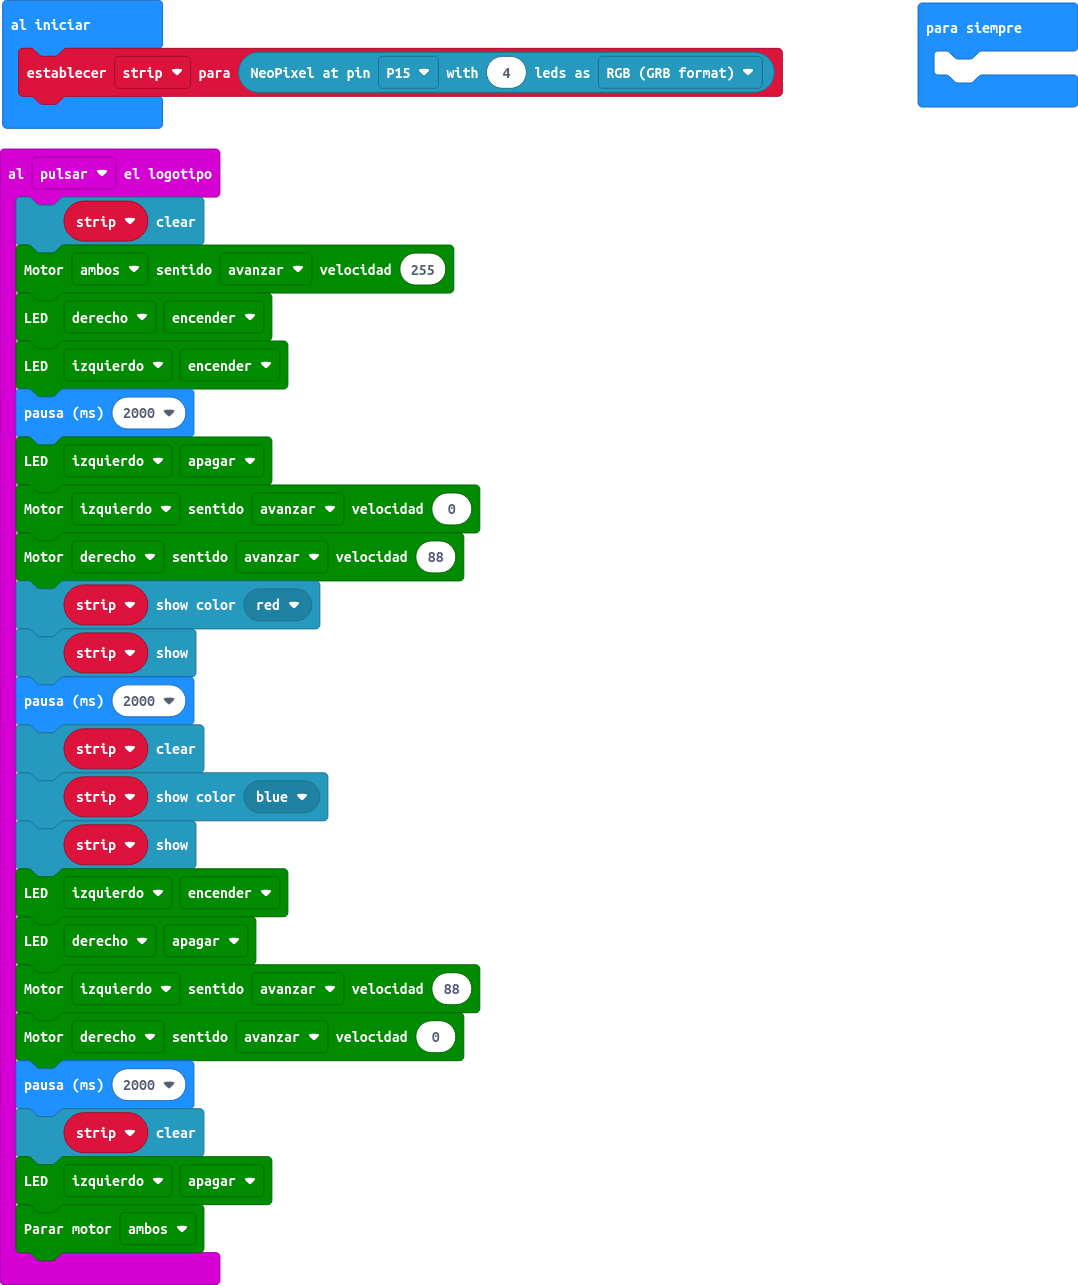
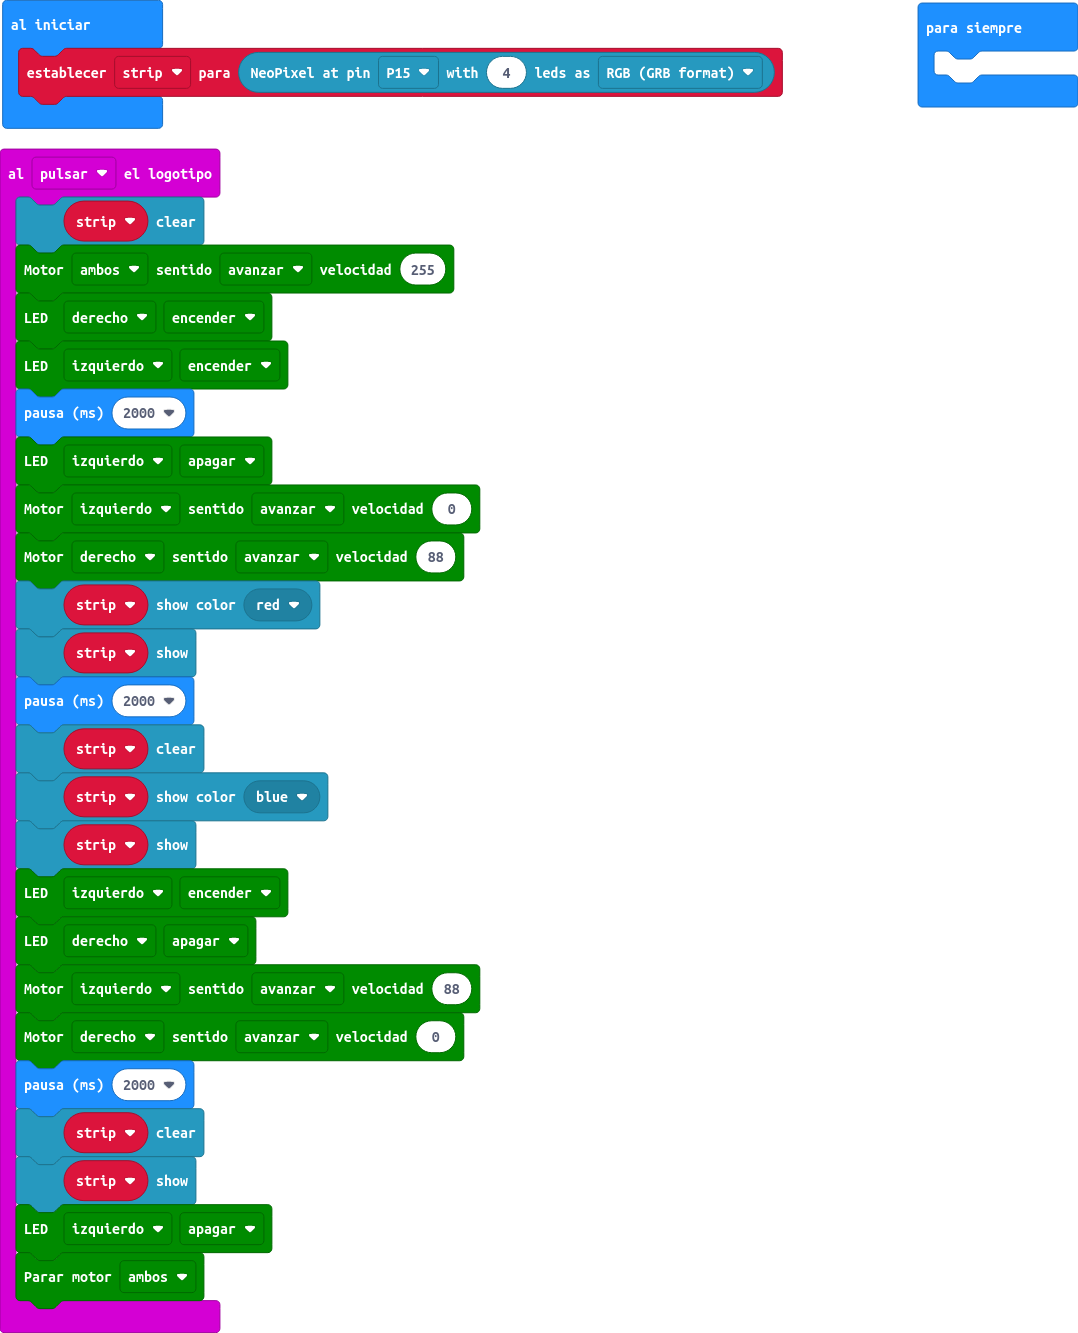
Actualizar main.blocks, main.ts

Changed region(s): [[0.0, 0.0311, 0.7347, 0.965], [0.8571, 0.0, 1.0, 0.0934]]

diff --git a/main.ts b/main.ts
@@ -19,6 +19,7 @@ input.onLogoEvent(TouchButtonEvent.Pressed, function () {
     maqueen.motorRun(maqueen.Motors.M2, maqueen.Dir.CW, 0)
     basic.pause(2000)
     strip.clear()
+    strip.show()
     maqueen.writeLED(maqueen.LED.LEDRight, maqueen.LEDswitch.turnOff)
     maqueen.motorStop(maqueen.Motors.All)
 })
